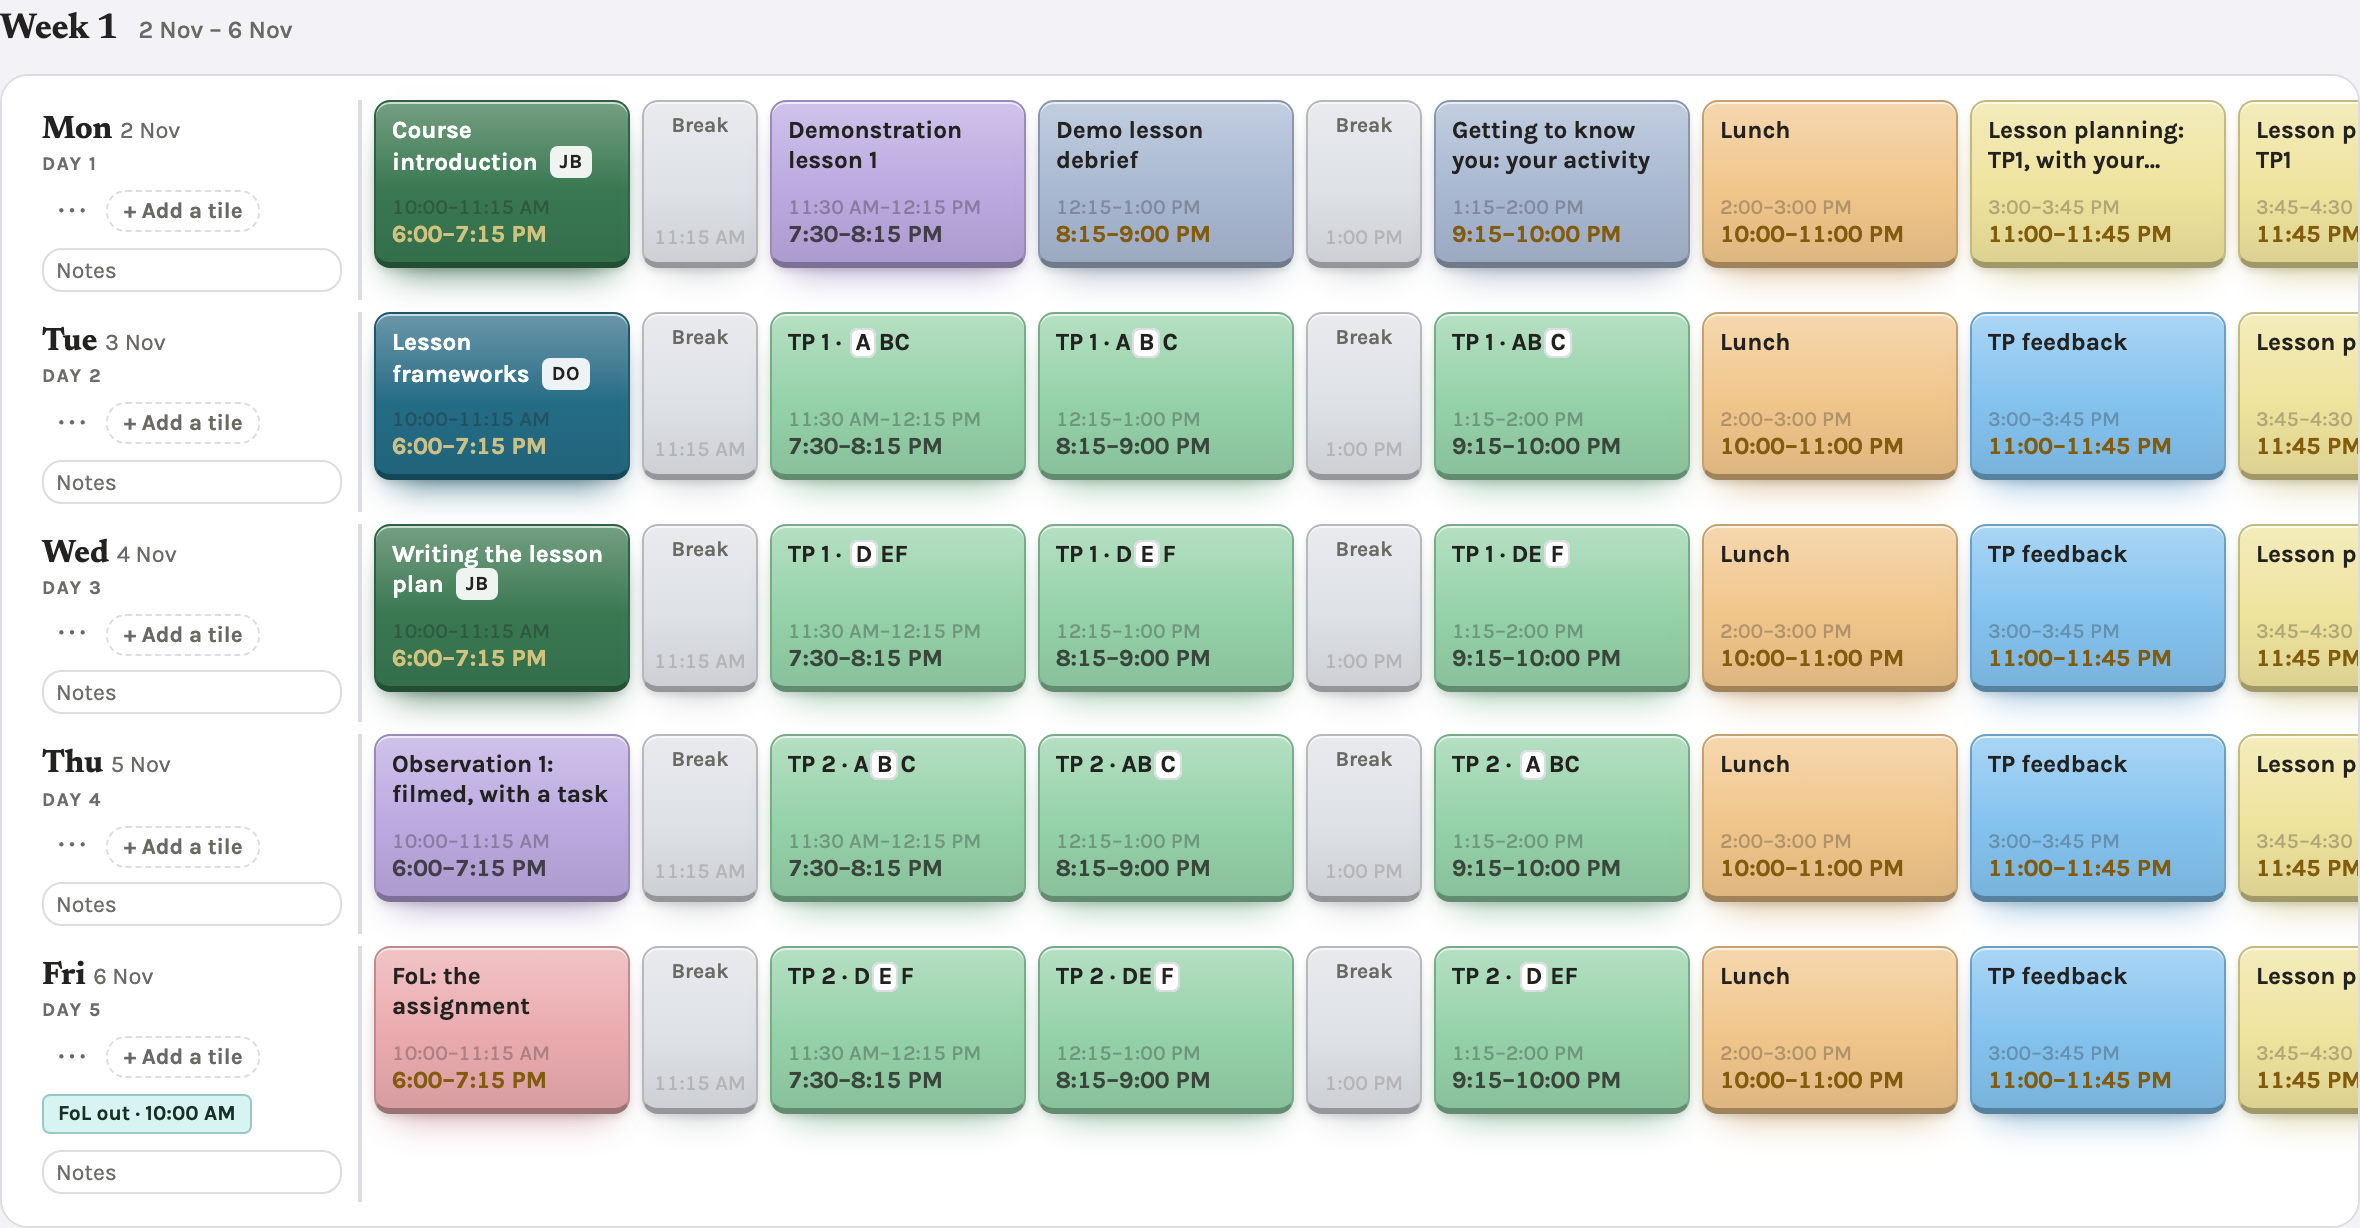
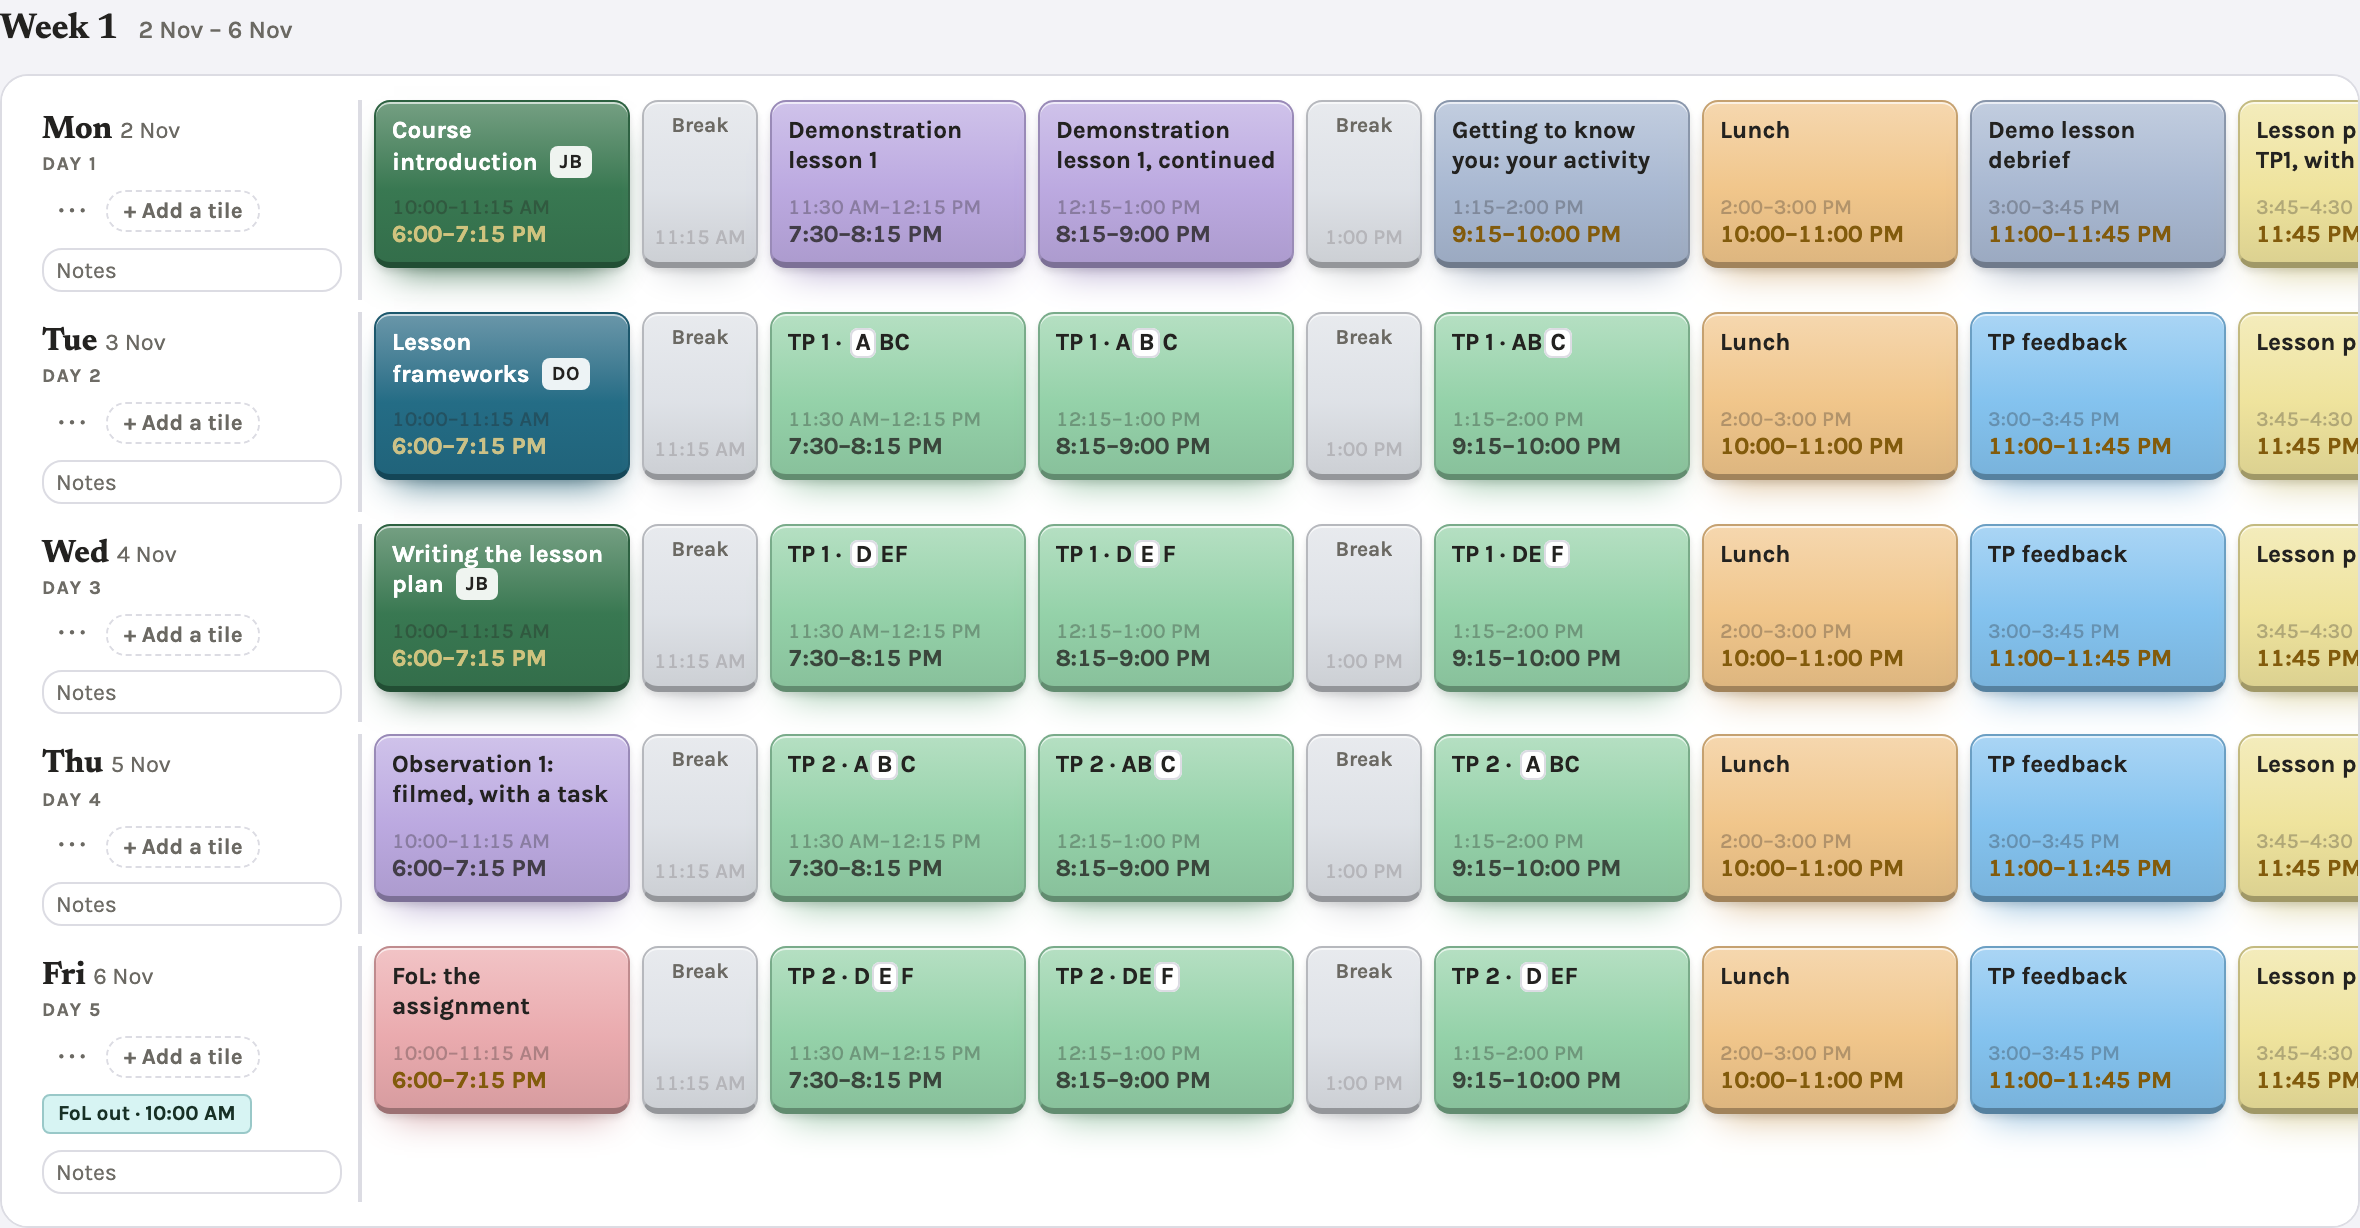
Connect's timetable: two-part demonstration lessons, two Stage 2 slots, four hours of filmed observation (Ramy, 29 Oct 2026: "the first demo is two 45-minute, and the second one is also two 45-minute"; "two slots for stage two reserved"; "three to four hours of filmed observations"; tutorials and co

Changed region(s): [[0.8352, 0.0619, 1.0, 0.2476], [0.4331, 0.0928, 0.5568, 0.1547], [0.4331, 0.1857, 0.5258, 0.2166]]

diff --git a/23_timetable.html b/23_timetable.html
@@ -1944,9 +1944,11 @@ function cxDays(){
   };
   const nextInput = d => ['input', order.shift() || 'Input session', by(d)];
   const SPECIAL = {
-    0: () => lay(['input', 'Course introduction', by(0)], ['demo', 'Demonstration lesson 1'], ['event', 'Demo lesson debrief'], ['event', 'Getting to know you: your activity'], ['plan', 'Lesson planning: TP1, with your tutor'], ['plan', 'Lesson planning: TP1']),
-    9: () => lay(nextInput(9), ['demo', 'Demonstration lesson 2: the new level'], ['task', 'Stage 2 tutorials', by(1)], ['task', 'LRT: the assignment', by(0)], ['task', 'Stage 2 tutorials', by(1)], ['task', 'Stage 2 tutorials', by(0)]),
-    14: () => lay(nextInput(14), ['demo', 'Filmed observation, with a task'], ['demo', 'Filmed observation, with a task'], ['task', 'LSRT: the assignment', by(1)], ['task', 'Stage 3 tutorials', by(0)], ['demo', 'Filmed observation, with a task']),
+    /* Ramy, 29 Oct 2026: "the first demo is two 45-minute, and the second one is also two 45-minute"; "two slots for
+       stage two reserved"; "three to four hours of filmed observations" (two in input slots, two on week 3's Friday) */
+    0: () => lay(['input', 'Course introduction', by(0)], ['demo', 'Demonstration lesson 1'], ['demo', 'Demonstration lesson 1, continued'], ['event', 'Getting to know you: your activity'], ['event', 'Demo lesson debrief'], ['plan', 'Lesson planning: TP1, with your tutor']),
+    9: () => lay(nextInput(9), ['demo', 'Demonstration lesson 2: the new level'], ['demo', 'Demonstration lesson 2, continued'], ['task', 'LRT: the assignment', by(0)], ['task', 'Stage 2 tutorials', by(1)], ['task', 'Stage 2 tutorials', by(0)]),
+    14: () => lay(nextInput(14), ['demo', 'Filmed observation, with a task'], ['demo', 'Filmed observation, with a task'], ['task', 'LSRT: the assignment', by(1)], ['task', 'Stage 3 tutorials', by(0)], ['task', 'Consultation', by(1)]),
     19: () => lay(['event', 'Course review and CELTA 5 checks'], ['task', 'Final tutorials', by(0)], ['task', 'Final tutorials', by(1)], ['task', 'Consultation: the CELTA 5 and the portfolio', by(0)], ['task', 'Consultation: what comes next', by(1)], ['event', 'End of course'])
   };
   const INPUT_AT = { 3: ['demo', 'Observation 1: filmed, with a task'], 4: ['task', 'FoL: the assignment', 0], 12: ['task', 'LfC: the assignment', 1], 13: ['demo', 'Observation 2: filmed, with a task'], 17: ['assessor', 'Assessor visit'] };
